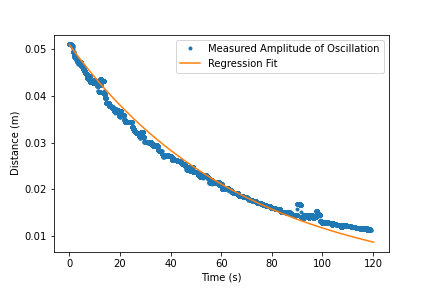
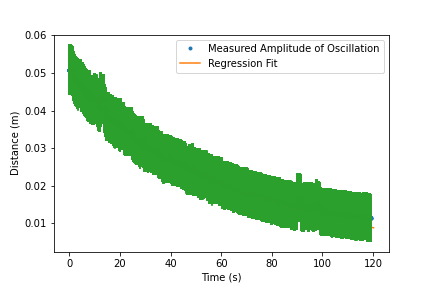
miscellaneous edits

diff --git a/Spring Oscillation/SpringOscillation.py b/Spring Oscillation/SpringOscillation.py
@@ -125,6 +125,7 @@ print("Spring constant is ",round(bareK,0)," +- ",uBareK, " kg/s/s")
 #________________________________________________________
 
 dampedXt, dampedX, uDampedX = np.loadtxt("dampedx.txt", unpack=True)
+dampedVt, dampedV = np.loadtxt("dampedv.txt", unpack=True)
 
 udampedXt = 0.005
 dampedMass = 217.6 #g
@@ -137,6 +138,16 @@ dampedOmega0 = (2*np.pi)/dampedPeriod #1/s
 uDampedOmega0 = round_it((2 * np.pi * uDampedFrequency),1)
 dampedK = (dampedOmega0**2)*dampedMass
 uDampedK = round_it(((2**(1/2))*dampedOmega0*uDampedOmega0),1)
+
+dampedV = dampedV / 100 #converting to m/s
+uDampedV = 0.0005 / 100
+
+reynoldV = np.sqrt(np.mean(dampedV[1:]**2))
+
+for i in np.arange(0,len(dampedV),1):
+    if abs(dampedV[i]) > 100:
+        dampedV[i] = 0
+
 
 #Using Forward Euler Method to get Plottable Data
 dampedY = zeros(len(dampedXt/dt))
@@ -222,6 +233,12 @@ def find_Amplitude(index,position_array):
     A = net_displacement / 2
     return A;
 
+def find_uAmplitude(index,position_array):
+    """Finds the uncertainty of the amplitude of a sinusoidal function based on extrema on a given time interval"""
+    uA = np.sqrt(((uDampedX[index]/max(position_array[index:index+150]))**2)+((uDampedX[index]/min(position_array[index:index+150]))**2))
+    uA = uA / 2
+    return uA;
+
 def find_Amplitude_time(index,position_array):
     """Finds the time of an aimpplitude on an interval"""
     peak = abs(max(position_array[index:index+10]))
@@ -275,17 +292,53 @@ Amplitudes = zeros(len(dampedXt))
 for i in np.arange(0,12000,1):
     Amplitudes[i] = find_Amplitude(i,dampedX)
     
+uAmplitudes = zeros(len(dampedXt))
+for i in np.arange(0,12000,1):
+    uAmplitudes[i] = find_uAmplitude(i,dampedX)
+    
 def gammaModel(t, gamma):
     return Amplitudes[0]*np.exp(t * -gamma)
-poptLin, pcovLin = so.curve_fit(gammaModel,dampedXt[0:11900],Amplitudes[0:11900])
+poptLin, pcovLin = so.curve_fit(gammaModel,dampedXt[0:11900],Amplitudes[0:11900], p0=-1)
+
 
 pl.cla()
 #pl.plot(dampedXt,dampedX, ".")
 pl.plot(dampedXt[0:11900],Amplitudes[0:11900], ".") #0.26625
 pl.plot(dampedXt,gammaModel(dampedXt,poptLin[0]))
+pl.errorbar(dampedXt[0:11900], Amplitudes[0:11900], xerr=0.00005, yerr=uAmplitudes[0:11900], fmt=" ")
 pl.xlabel("Time (s)")
 pl.ylabel("Distance (m)")
 pl.legend(["Measured Amplitude of Oscillation","Regression Fit"])
 pl.savefig("Session 2 - Amplitude of Oscillation with Fit")
 
+pl.cla()
+#pl.plot(dampedXt,dampedX, ".")
+#pl.errorbar(dampedXt[0:11900], Amplitudes[0:11900], xerr=0.00005, yerr=(max(uDampedX)*np.sqrt(2)), fmt=" ")
+pl.errorbar(dampedXt[0:11900], Amplitudes[0:11900], xerr=0.00005, yerr=uAmplitudes[0:11900], fmt=" ")
+pl.plot(dampedXt[0:11900],Amplitudes[0:11900], ".") #0.26625
+pl.xlabel("Time (s)")
+pl.ylabel("Amplitude (m)")
+pl.savefig("Session 2 - Amplitude of Oscillation")
+
 print("Gamma coefficient is ", poptLin[0], "+- ", pcovLin[0][0])
+
+#Computing Chi-Squared
+X2 = 0
+i = 0
+while i < len(dampedXt):
+    if i == 52:
+        i = 53;
+    X2 = X2 + (((Amplitudes[i]-gammaModel(dampedXt[i],poptLin[0]))/(uDampedX[i]**np.sqrt(2)))**2)
+    i = i + 1
+parameters = 2 #the number of parameters in nu = N - n
+X2 = X2 / ((len(dampedX))-parameters)
+
+
+print("Chi-Squared is ",X2," for the Non-Linear Regression Model.")
+if X2 < 1:
+    print("Thus, this model is over-fit.\n")
+if X2 > 10:
+    print("Thus, the model is a poor fit.\n")
+
+if X2 > 1 and X2 < 5:
+    print("Thus, the model is an incomplete fit.\n")
